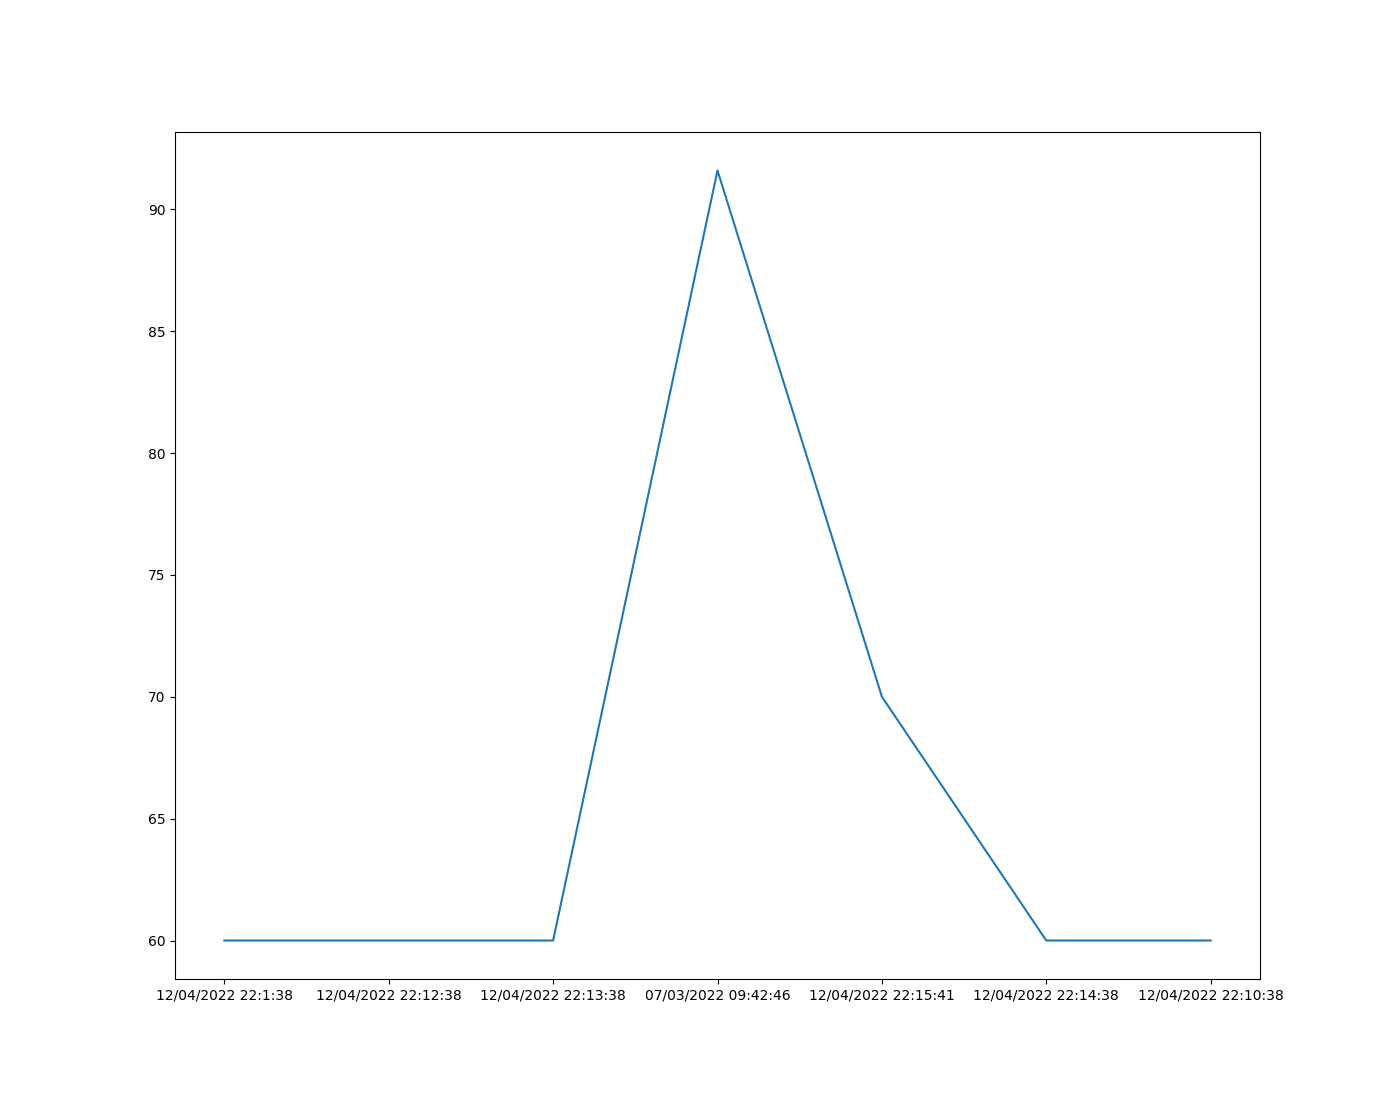
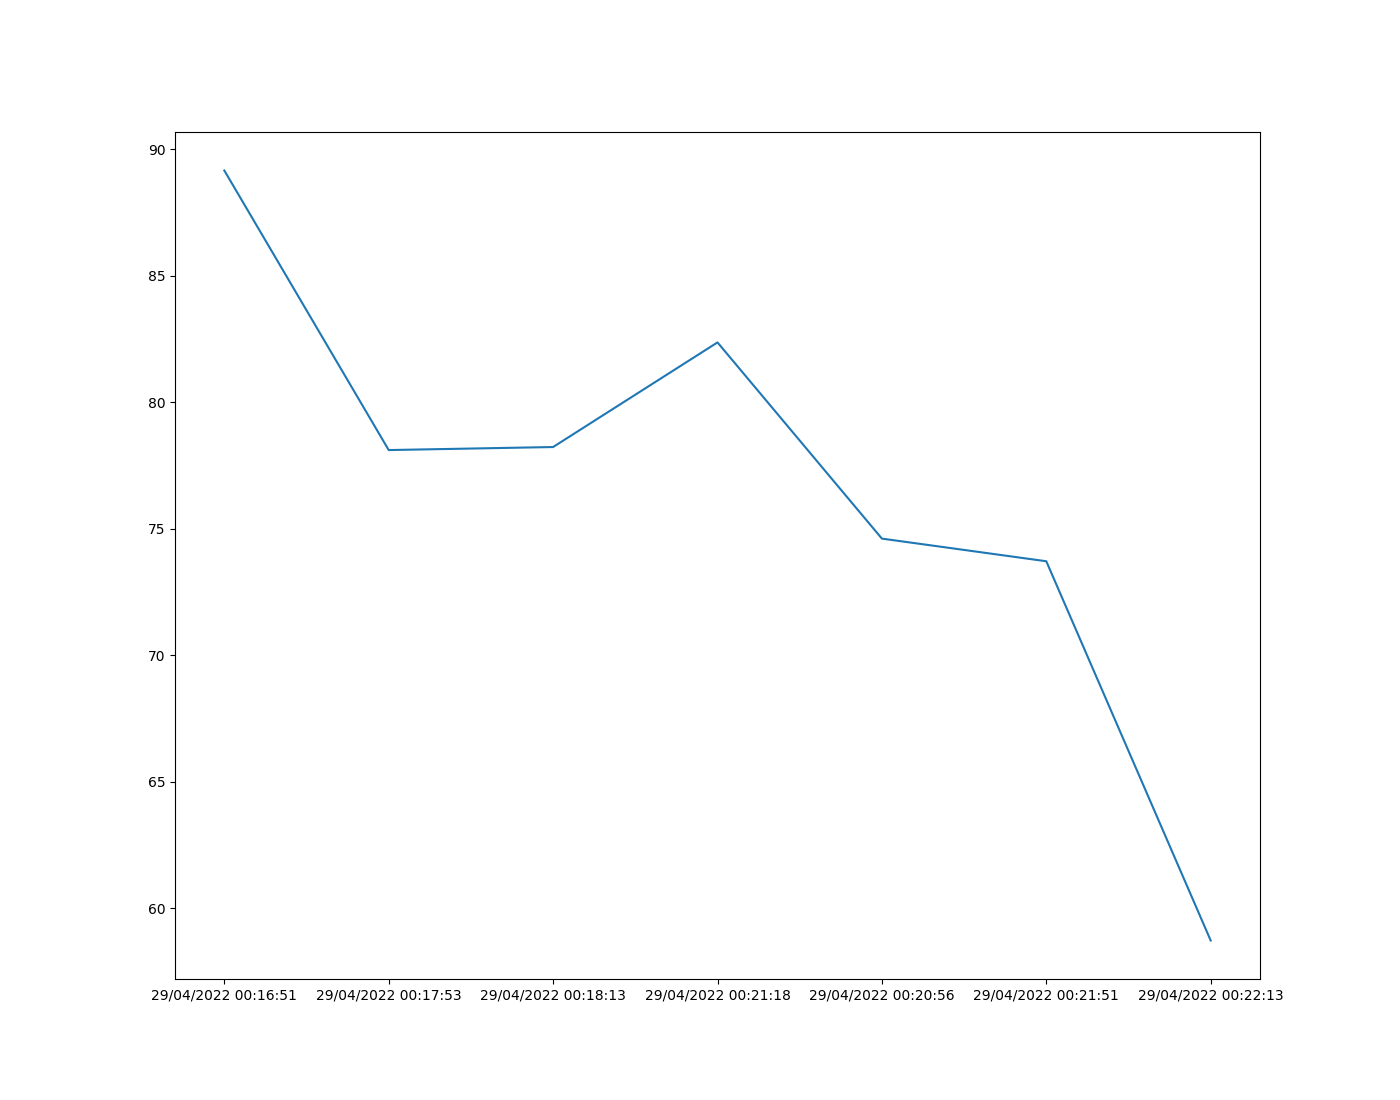
suprise! insights graph fixed from fixing the last thing that was supposed to be a fix

diff --git a/insights_graph.py b/insights_graph.py
@@ -34,7 +34,7 @@ def cleanup(choice):
 
 
 window = Tk()
-window.attributes('-fullscreen', True)
+#window.attributes('-fullscreen', True)
 window.geometry("1920x1080")
 window.configure(bg="#FFFFFF")
 list_of_files = create_xml.previous_lift_files()
@@ -47,23 +47,23 @@ recent4 = minidom.parse(list_of_files[4])
 recent5 = minidom.parse(list_of_files[5])
 recent6 = minidom.parse(list_of_files[6])
 
-final_score0 = float(recent6.getElementsByTagName("final_score")[0].childNodes[0].nodeValue)
-final_score1 = float(recent5.getElementsByTagName("final_score")[0].childNodes[0].nodeValue)
-final_score2 = float(recent4.getElementsByTagName("final_score")[0].childNodes[0].nodeValue)
+final_score6 = float(recent6.getElementsByTagName("final_score")[0].childNodes[0].nodeValue)
+final_score5 = float(recent5.getElementsByTagName("final_score")[0].childNodes[0].nodeValue)
+final_score4 = float(recent4.getElementsByTagName("final_score")[0].childNodes[0].nodeValue)
 final_score3 = float(recent3.getElementsByTagName("final_score")[0].childNodes[0].nodeValue)
-final_score4 = float(recent2.getElementsByTagName("final_score")[0].childNodes[0].nodeValue)
-final_score5 = float(recent1.getElementsByTagName("final_score")[0].childNodes[0].nodeValue)
-final_score6 = float(recent0.getElementsByTagName("final_score")[0].childNodes[0].nodeValue)
+final_score2 = float(recent2.getElementsByTagName("final_score")[0].childNodes[0].nodeValue)
+final_score1 = float(recent1.getElementsByTagName("final_score")[0].childNodes[0].nodeValue)
+final_score0 = float(recent0.getElementsByTagName("final_score")[0].childNodes[0].nodeValue)
 
 # get date from data
 
-date0 = str(recent6.getElementsByTagName("date")[0].childNodes[0].nodeValue)
-date1 = str(recent5.getElementsByTagName("date")[0].childNodes[0].nodeValue)
-date2 = str(recent4.getElementsByTagName("date")[0].childNodes[0].nodeValue)
+date6 = str(recent6.getElementsByTagName("date")[0].childNodes[0].nodeValue)
+date5 = str(recent5.getElementsByTagName("date")[0].childNodes[0].nodeValue)
+date4 = str(recent4.getElementsByTagName("date")[0].childNodes[0].nodeValue)
 date3 = str(recent3.getElementsByTagName("date")[0].childNodes[0].nodeValue)
-date4 = str(recent2.getElementsByTagName("date")[0].childNodes[0].nodeValue)
-date5 = str(recent1.getElementsByTagName("date")[0].childNodes[0].nodeValue)
-date6 = str(recent0.getElementsByTagName("date")[0].childNodes[0].nodeValue)
+date2 = str(recent2.getElementsByTagName("date")[0].childNodes[0].nodeValue)
+date1 = str(recent1.getElementsByTagName("date")[0].childNodes[0].nodeValue)
+date0 = str(recent0.getElementsByTagName("date")[0].childNodes[0].nodeValue)
 
 xpoints = [date0, date1, date2, date3, date4, date5, date6]
 ypoints = [final_score0, final_score1, final_score2, final_score3, final_score4, final_score5, final_score6]
